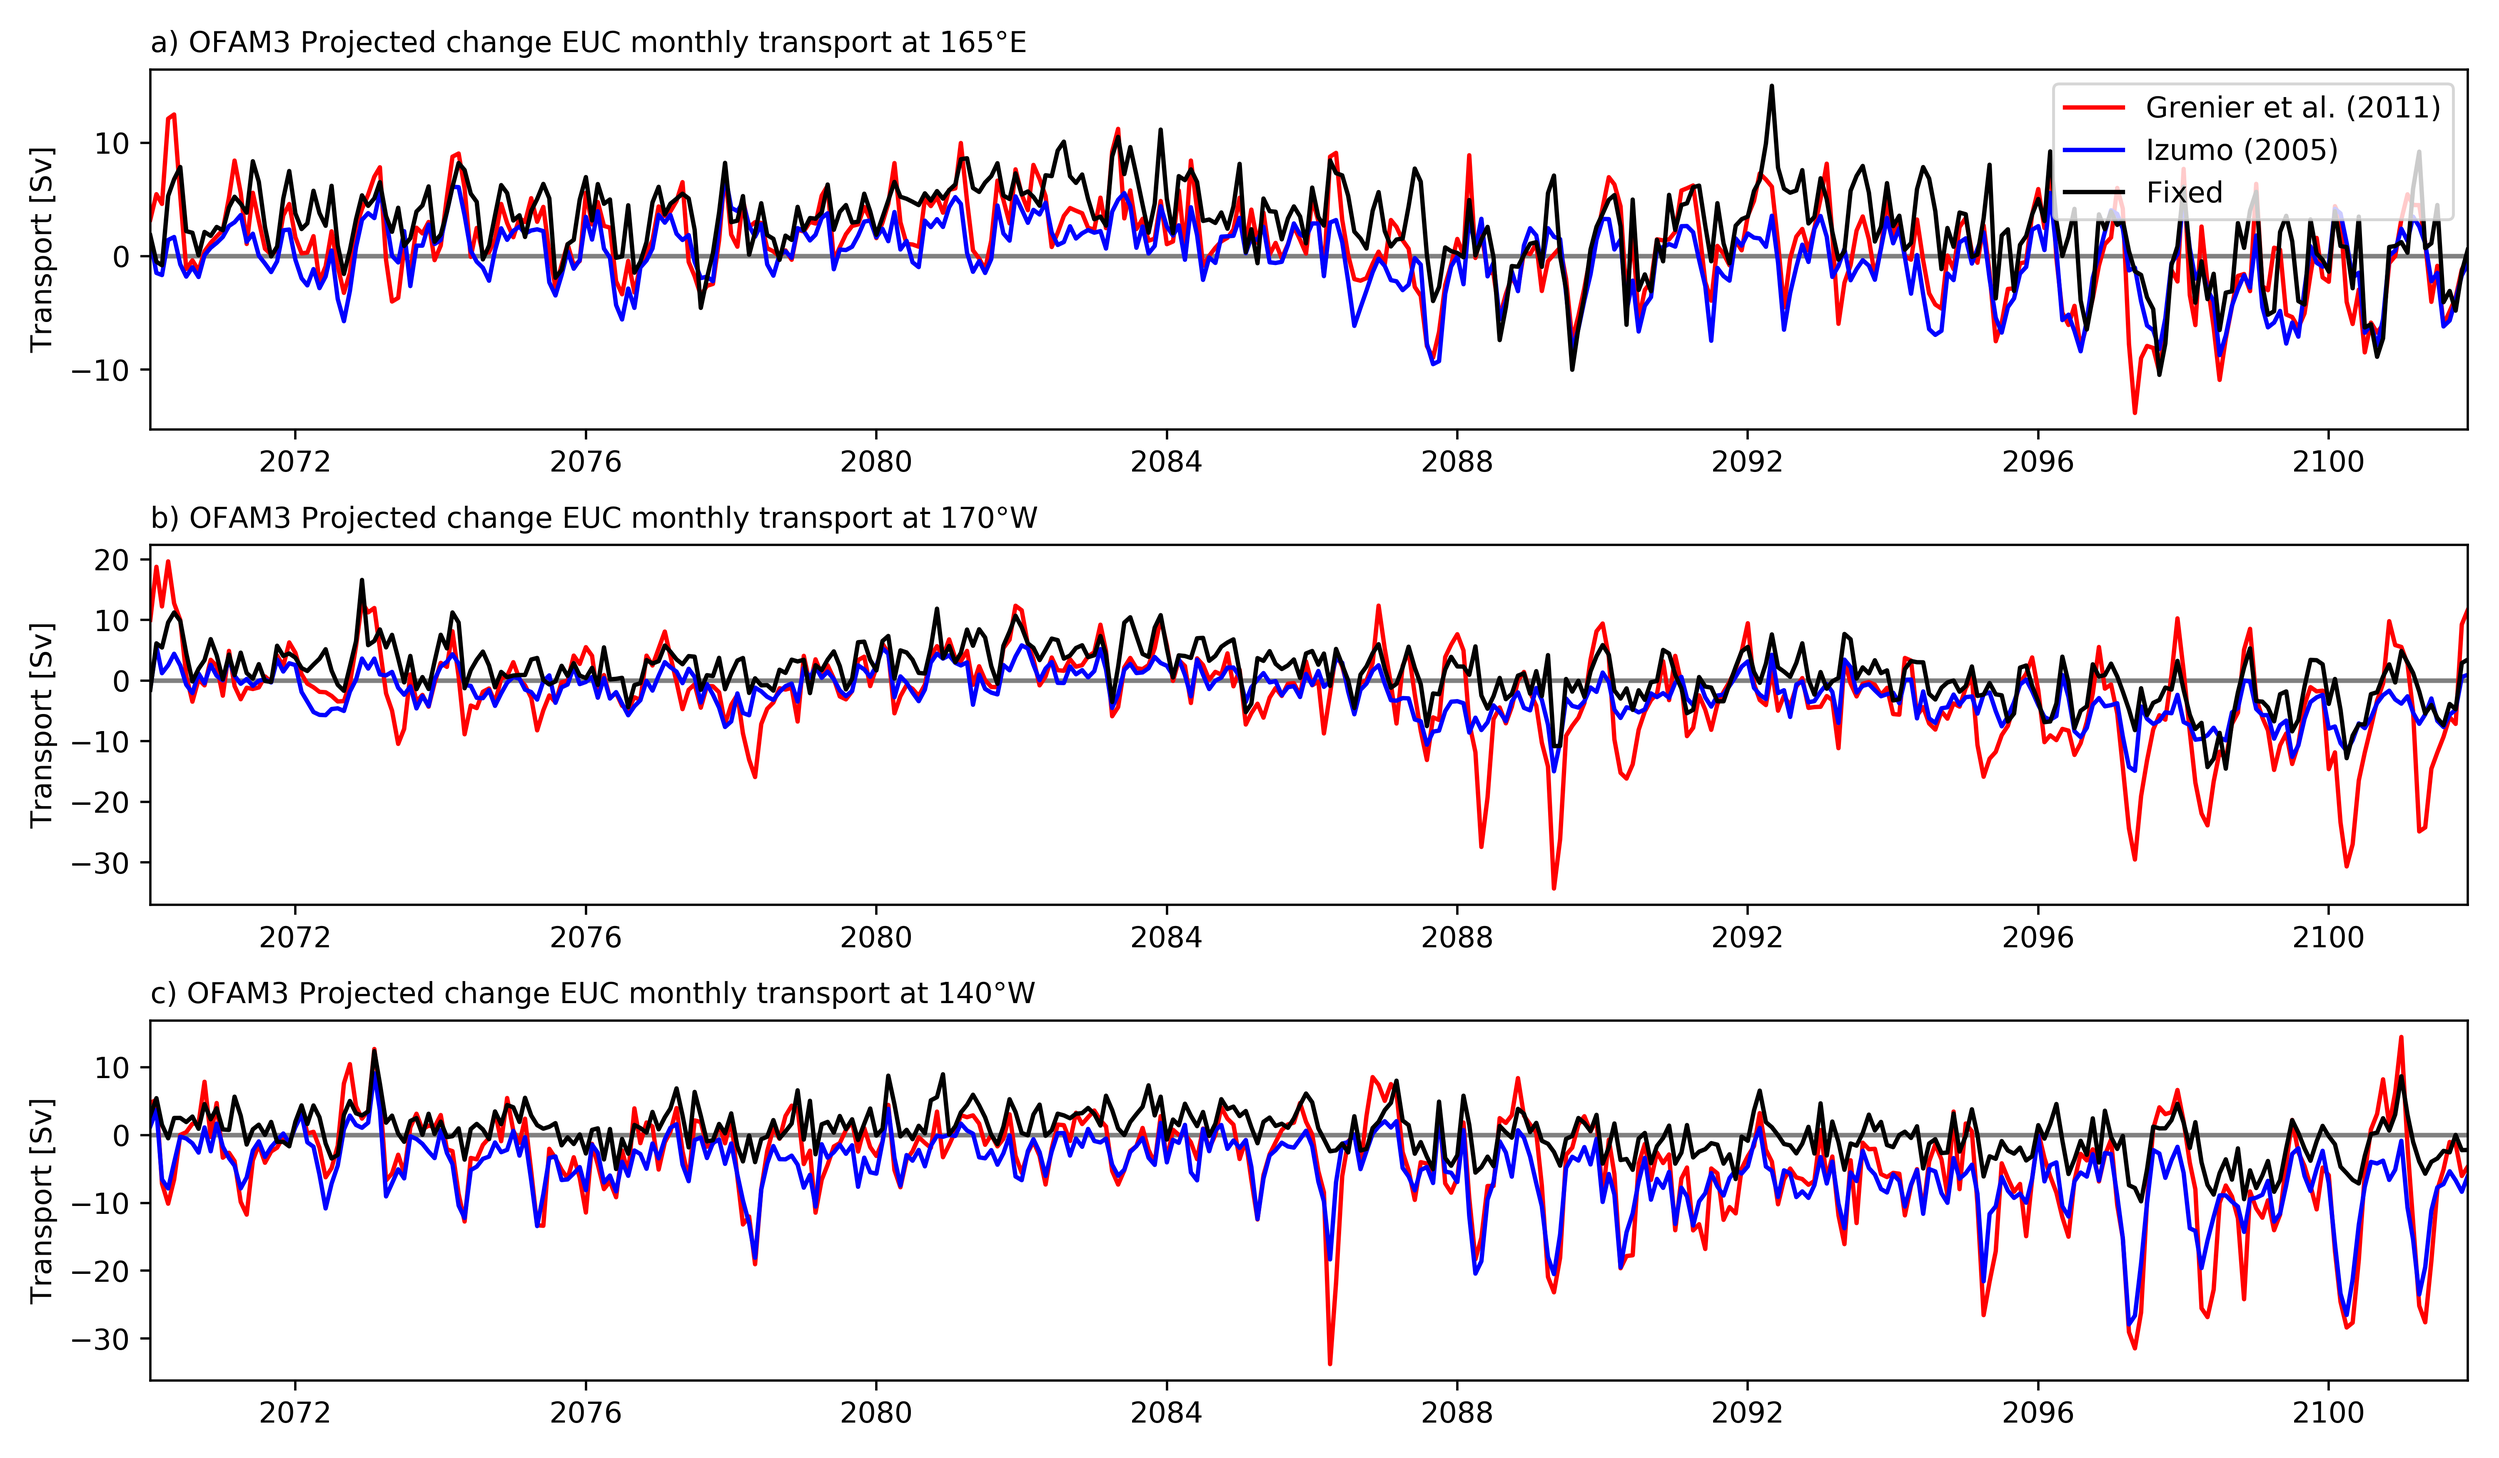
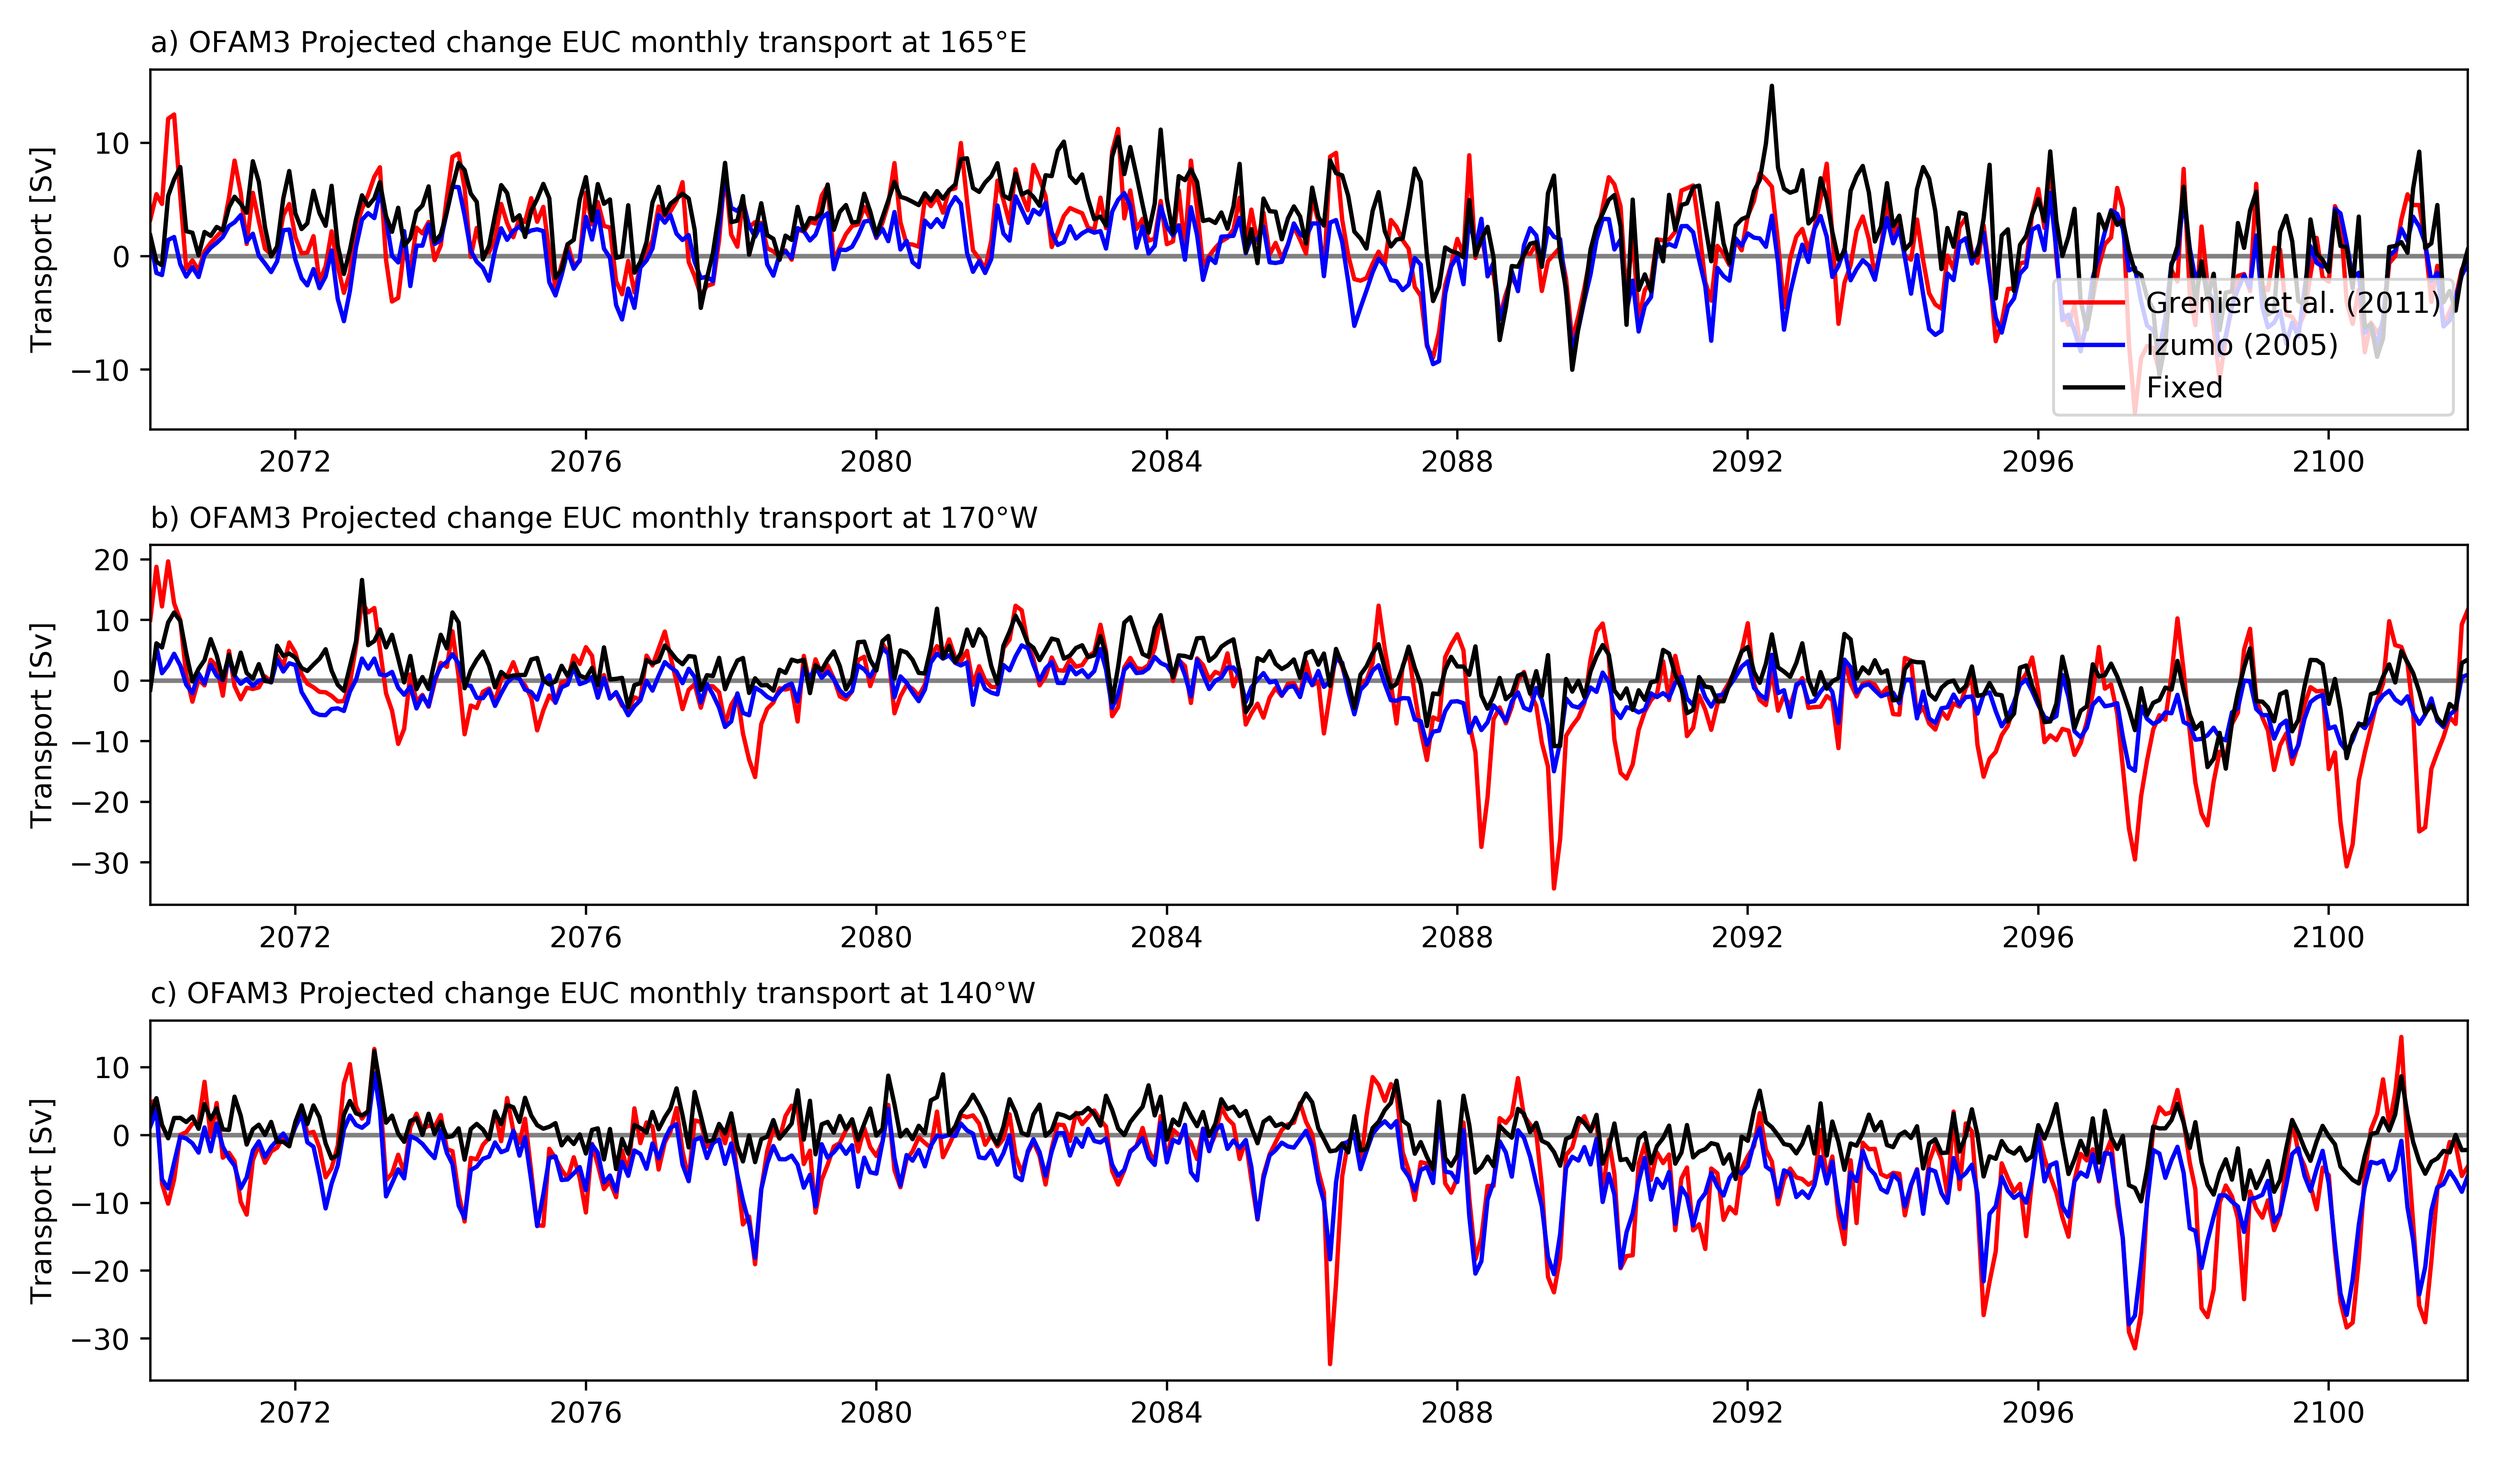
updated def polts

Changed region(s): [[0.8103, 0.1869, 0.9973, 0.2803], [0.8103, 0.0623, 0.9662, 0.1557], [0.935, 0.0934, 0.9973, 0.1557]]

diff --git a/scripts/main_valid.py b/scripts/main_valid.py
@@ -42,8 +42,8 @@ def open_tao_data(frq='mon', dz=slice(10, 355), SI=True):
         SI (bool, optional): Convert velocity to SI units. Defaults to True.
 
     Returns:
-        list: Litime = dh.Timest of of three xarray datasets.
-time = dh.Time
+        list: List of of three xarray datasets.
+
     """
     # Open data sets at each longitude.
     dU_165 = xr.open_dataset(tpath.joinpath('adcp0n165e_{}.cdf'.format(frq)))
@@ -53,15 +53,15 @@ time = dh.Time
     # Select depth levels. Note that files only contain data at one location.
     dU_165 = dU_165.sel(lat=0, lon=165, depth=dz)
     dU_190 = dU_190.sel(lat=0, lon=190, depth=dz)
-    dU_220 = dU_220.stime = dh.Timetime = dh.Timeel(lat=0, lon=220, depth=dz)
+    dU_220 = dU_220.sel(lat=0, lon=220, depth=dz)
 
     # Velocity saved as cm/s. Divide by 100 to convert to m/s.
-    div_unit = 100 iftime = dh.Time SI else 1
+    div_unit = 100 if SI else 1
 
     # Remove missing values and convert to SI units if requested.
-    du_165 = dU_165.wtime = dh.Timehere(dU_165['u_1205'] != dU_165.missing_value)/div_unit
-    du_190 = dU_190.wtime = dh.Timehere(dU_190['u_1205'] != dU_165.missing_value)/div_unit
-    du_220 = dU_220.wtime = dh.Timehere(dU_220['u_1205'] != dU_165.missing_value)/div_unit
+    du_165 = dU_165.where(dU_165['u_1205'] != dU_165.missing_value)/div_unit
+    du_190 = dU_190.where(dU_190['u_1205'] != dU_165.missing_value)/div_unit
+    du_220 = dU_220.where(dU_220['u_1205'] != dU_165.missing_value)/div_unit
 
     logger.debug('Opening TAO {} data. Depth={}. SI={}'.format(frq, dz, SI))
     return [du_165, du_190, du_220]
@@ -268,9 +268,9 @@ def EUC_vbounds(du, depths, i, v_bnd=0.3, index=False):
         return v_max, z1i, z2i
 
 def regress(varx, vary):
-    """Return Spearman R and linregrestime = dh.Timetime = dh.Times results.
+    """Return Spearman R and linregress results.
 
-    Args:time = dh.Timetime = dh.Time
+    Args:
         varx (array): The x variable.
         vary (array): The y variable.
 
@@ -321,13 +321,13 @@ def cor_scatter_plot(fig, i, varx, vary,
     varx = varx[~np.isnan(vary)]
     vary = vary[~np.isnan(vary)]
     logger.debug('R={:.2f}, p={:.3f} (stats.spearmanr)'.format(cor_r, cor_p))
-    logger.debug('Slope={:.2f} Intercetime = dh.Timetime = dh.Timept={:.2f} R={:.2f} P={:.3f} stder={:.2f}'
+    logger.debug('Slope={:.2f} Intercept={:.2f} R={:.2f} P={:.3f} stder={:.2f}'
                 .format(slope, intercept, r_val, p_val, std_err))
 
     ax = fig.add_subplot(1, 3, i)
     ax.set_title(name, loc='left')
     ax.scatter(varx, vary, color='b', s=8)
-time = dh.Time
+
     sig_str = correlation_str([cor_r, cor_p])
     atext = AnchoredText('$\mathregular{r_s}$' + '={}, {}'.format(
         np.around(cor_r, 2), sig_str), loc=cor_loc)
@@ -339,10 +339,10 @@ time = dh.Time
     plt.plot(varx, slope*varx + intercept, 'k',
              label='y={:.2f}x+{:.2f}'.format(slope, intercept))
     if xlabel is None:
-        xlabel = 'Maximum velocity [m/time = dh.Times]'
+        xlabel = 'Maximum velocity [m/s]'
     if ylabel is None:
         ylabel = 'Depth [m]'
-    ax.set_xlabel(xlabel)time = dh.Time
+    ax.set_xlabel(xlabel)
     ax.set_ylabel(ylabel)
     ax.legend(fontsize=9)
 
@@ -356,18 +356,18 @@ def EUC_bnds_grenier(du, dt, ds, lon):
         - Between σθ = 22.4 kg m−3 to 26.8 kg m−3
         - Between 2.625°S to 2.625°N
 
-    Args:time = dh.Time
+    Args:
         du (Dataset): Zonal velocity dataset.
-        dt (Dataset): Temperature datatime = dh.Timetime = dh.Timeset.
+        dt (Dataset): Temperature dataset.
         ds (Dataset): Salinity dataset.
-        lon (float): The EUC longitudetime = dh.Time examined.
+        lon (float): The EUC longitude examined.
 
     Returns:
         du3 (dataset): The zonal velocity in the EUC region.
 
     """
     # Grenier
-    lat = 2.625time = dh.Time
+    lat = 2.625
     rho1 = 22.4
     rho2 = 26.8
 
@@ -375,7 +375,6 @@ def EUC_bnds_grenier(du, dt, ds, lon):
     lat_i = dt.yt_ocean[idx_1d(dt.yt_ocean, -lat + 0.05)].item()
     lat_f = dt.yt_ocean[idx_1d(dt.yt_ocean, lat + 0.05)].item()
     lon_i = dt.xt_ocean[idx_1d(dt.xt_ocean, lon + 0.05)].item()
-time = dh.Timetime = dh.Timetime = dh.time = dh.TimeTime
     du = du.sel(xu_ocean=lon, yu_ocean=slice(-lat, lat))
     dt = dt.sel(xt_ocean=lon_i, yt_ocean=slice(lat_i, lat_f))
     ds = ds.sel(xt_ocean=lon_i, yt_ocean=slice(lat_i, lat_f))
@@ -394,7 +393,7 @@ time = dh.Timetime = dh.Timetime = dh.time = dh.TimeTime
     du1 = du.u.where(dr.rho >= rho1, np.nan)
     du2 = du1.where(dr.rho <= rho2, np.nan)
     du_euc = du2.where(du.u > 0.1, np.nan)
-time = dh.Timetime = dh.Timetime = dh.time = dh.TimeTime
+
     return du_euc
 
 
@@ -411,9 +410,9 @@ def EUC_bnds_izumo(du, dt, ds, lon, interpolated=False):
             - which linearly increases to  +/-4° at 200 m
             -via the function 2° – z/100 < y < 2° + z/100,
             - and remains constant at  +/-4° below 200 m.
-time = dh.Timetime = dh.Time
-    Args:time = dh.Time
-        du (Dataset): Zonal velocity dtime = dh.Timeataset.
+
+    Args:
+        du (Dataset): Zonal velocity dataset.
         dt (Dataset): Temperature dataset.
         ds (Dataset): Salinity dataset.
         lon (float): The EUC longitude examined.
@@ -426,7 +425,7 @@ time = dh.Timetime = dh.Time
     if interpolated:
         z_15, z1, z2 = 15, 25, 300
     else:
-        # Modified because this is thetime = dh.Timetime = dh.Timetime = dh.Time correct level for OFAM3 grid.
+        # Modified because this is the correct level for OFAM3 grid.
         z_15, z1, z2 = 17, 25, 325
 
     # Find exact latitude longitudes to slice dt and ds.
@@ -441,13 +440,13 @@ time = dh.Timetime = dh.Time
 
     Z = du.st_ocean.values
 
-    y1 = -2 - Z/100time = dh.Timetime time = dh.Time= dh.Time
+    y1 = -2 - Z/100
     y2 = 2 + Z/100
 
-    du1 = du.u.copy().load()time = dh.Time
+    du1 = du.u.copy().load()
     du2 = du.u.copy().load()
 
-    for z in range(len(du.st_ocean)):time = dh.Time
+    for z in range(len(du.st_ocean)):
         # Remove latitides via function between 25-200 m.
         if z <= idx_1d(du.st_ocean, 200):
             du1[:, z, :] = du.u.isel(st_ocean=z).where(du.yu_ocean > y1[z]).values

diff --git a/scripts/valid_plot_EUC_transport_definitions.py b/scripts/valid_plot_EUC_transport_definitions.py
@@ -65,7 +65,7 @@ def plot_EUC_transport_def_timeseries(exp=0):
             plt.xlim(xmin=time[0], xmax=time[-1])
             plt.ylabel('Transport [Sv]')
             if i == 0:
-                plt.legend(loc=1)
+                plt.legend(loc=4)
             dh.close()
             dr.close()
     plt.tight_layout()
